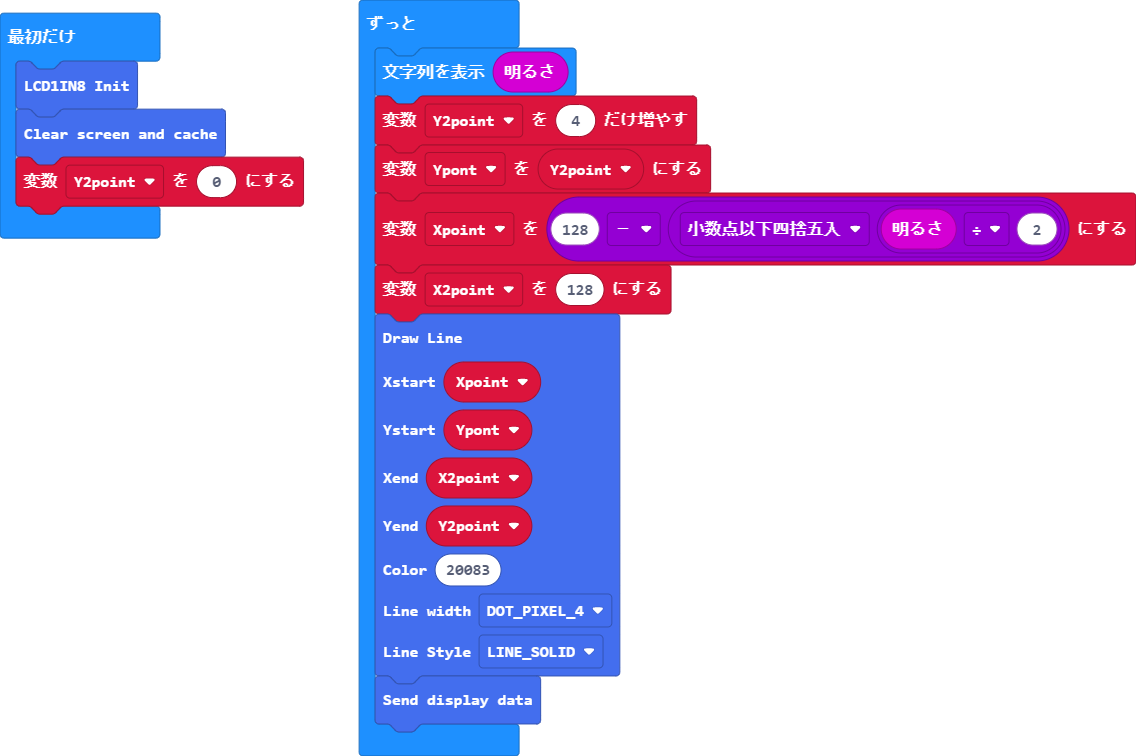
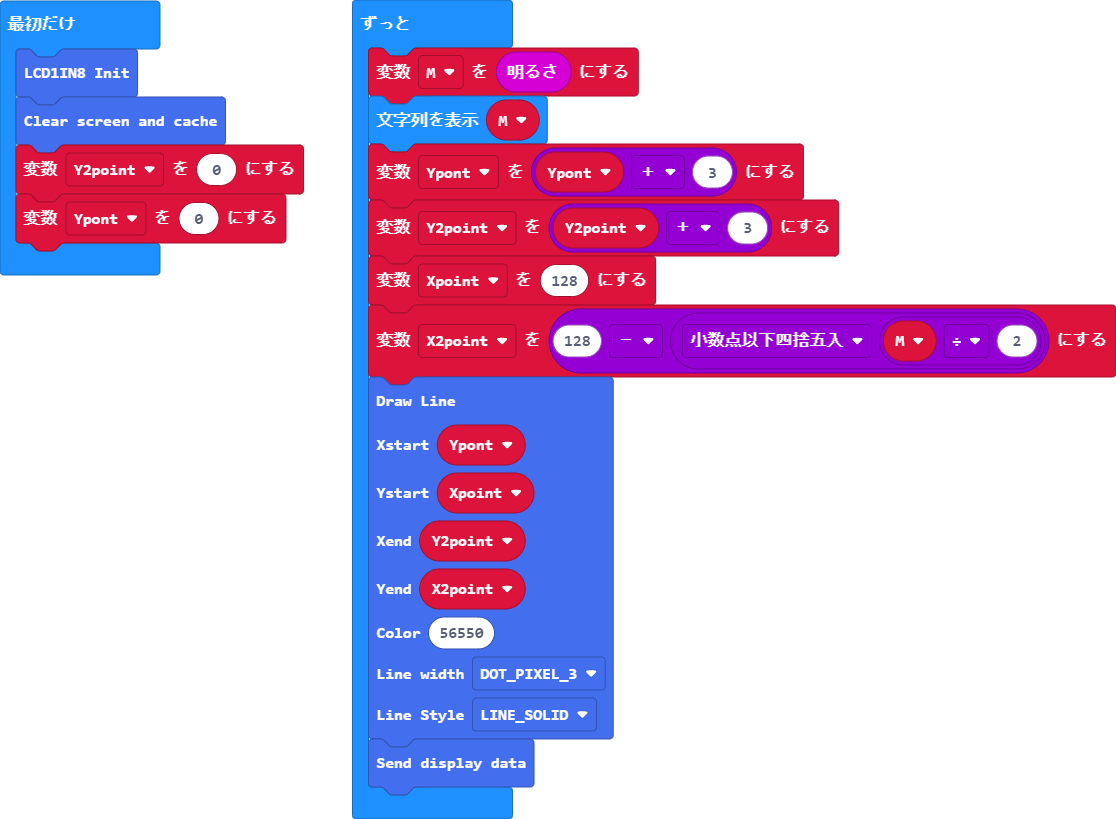
更新 main.blocks, main.ts

Changed region(s): [[0.3047, 0.0, 1.0, 0.9735], [0.0, 0.0, 0.2742, 0.3347]]

diff --git a/main.ts b/main.ts
@@ -1,22 +1,24 @@
 let X2point = 0
 let Xpoint = 0
-let Ypont = 0
+let M = 0
 LCD1IN8.LCD_Init()
 LCD1IN8.LCD_Clear()
 let Y2point = 0
+let Ypont = 0
 basic.forever(function () {
-    basic.showString("" + (input.lightLevel()))
-    Y2point += 4
-    Ypont = Y2point
-    Xpoint = 128 - Math.round(input.lightLevel() / 2)
-    X2point = 128
+    M = input.lightLevel()
+    basic.showString("" + (M))
+    Ypont = Ypont + 3
+    Y2point = Y2point + 3
+    Xpoint = 128
+    X2point = 128 - Math.round(M / 2)
     LCD1IN8.DrawLine(
-    Xpoint,
     Ypont,
-    X2point,
+    Xpoint,
     Y2point,
-    20083,
-    DOT_PIXEL.DOT_PIXEL_4,
+    X2point,
+    56550,
+    DOT_PIXEL.DOT_PIXEL_3,
     LINE_STYLE.LINE_SOLID
     )
     LCD1IN8.LCD_Display()
